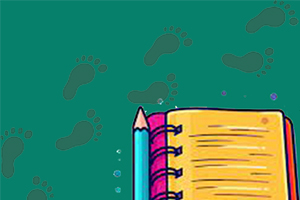
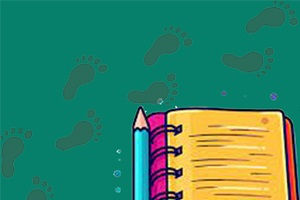
image 2

diff --git a/src/app/app.component.html b/src/app/app.component.html
@@ -138,7 +138,7 @@
     </div>
 
     <div class="project formation" id="">
-      <img class="imgProjet" src="./assets/front_soap.PNG" alt="">
+      <img class="imgProjet" src="./assets/front_soap.jpg" alt="">
       <h2>Angular SOAP Front-end</h2>
       <span id="gitProjet"><a href="https://github.com/faCompteGit/Soap-Front-Angular/tree/master" target="_blank" id="lienprojet"> Voir sur Github</a> <fa-icon class="iconGit"  [icon]="faGithub"></fa-icon></span>
     </div>
